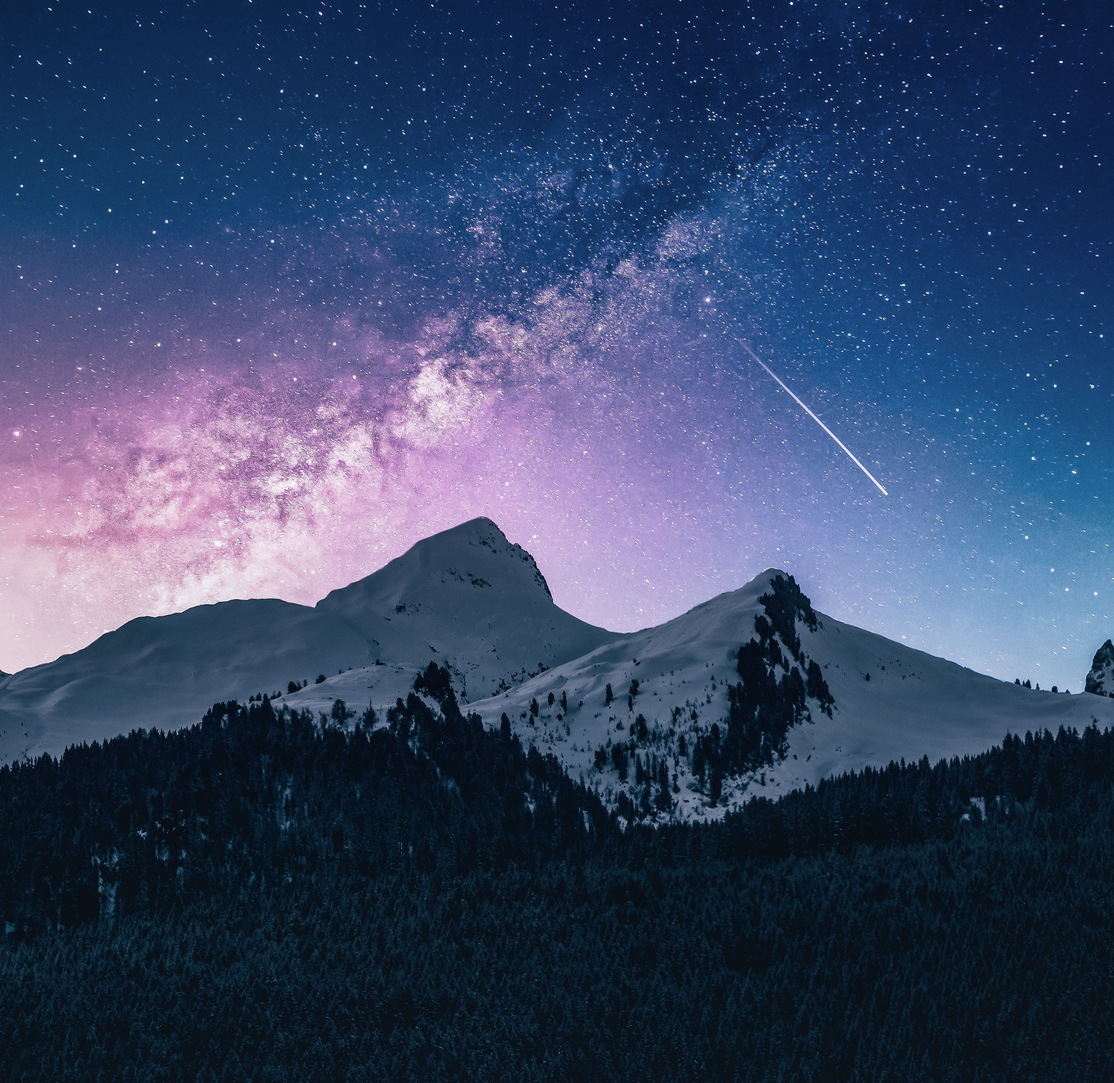
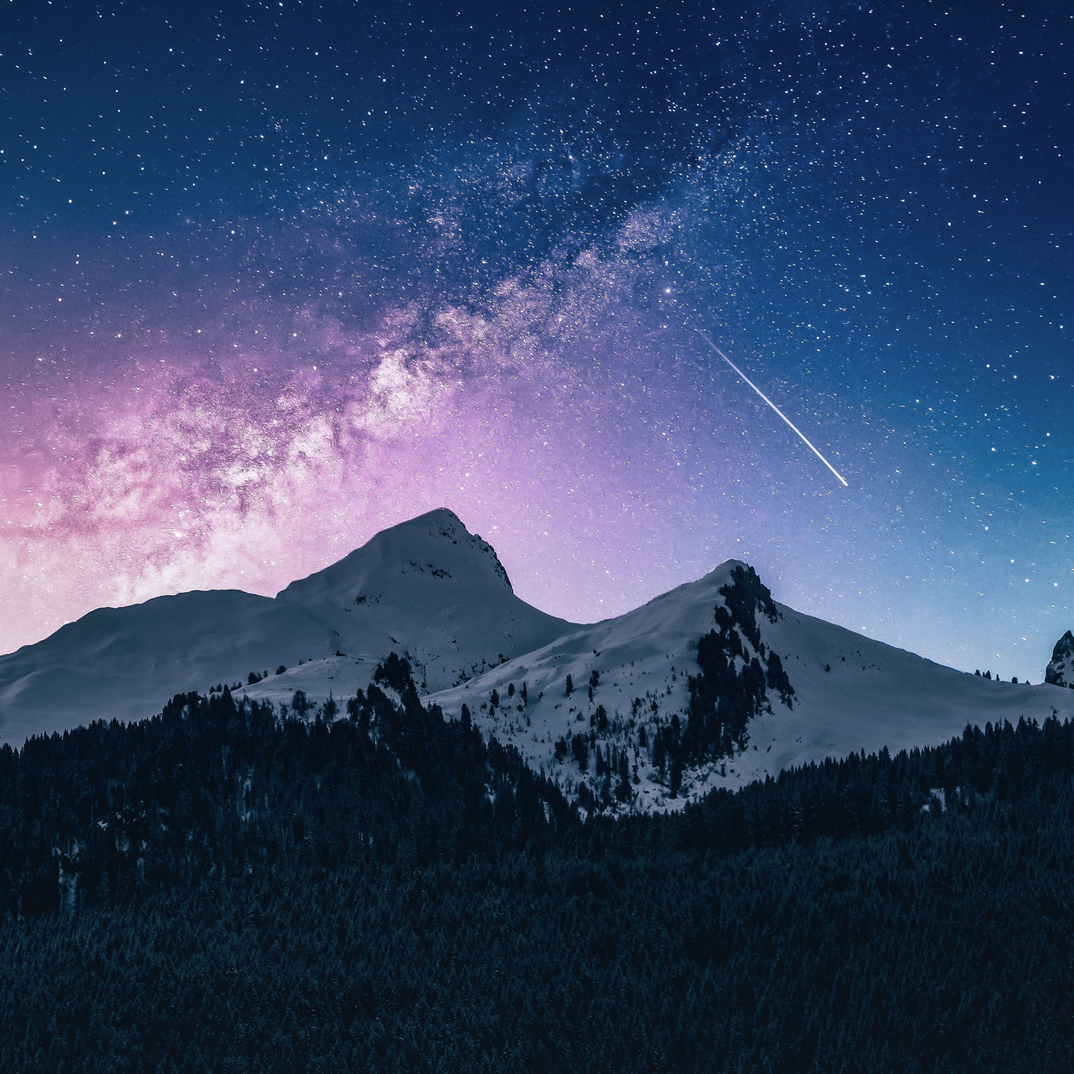
Style "random info" section (second section)
- Also updated an image file that was not properly cropped to square.
 - Minor fixes to hero / header section as well

diff --git a/index.html b/index.html
@@ -29,7 +29,7 @@
                 </div>
                 <button class="sign-up">Sign up</button>
             </div>
-            <img src="images/mountain1.jpg" alt="snowy mountain">
+            <img src="images/mountain1.jpg" alt="snowy mountain" width="50%" height="100%">
         </div>
     </div>
 
@@ -37,19 +37,19 @@
         <div class="info-title-text">Some random information.</div>
         <div class="info-cards-container">
             <div class="info-card">
-                <img src="images/mountain2.jpg" alt="mountain">
+                <img src="images/mountain2.jpg" alt="mountain" width="100px" height="100px">
                 <div>this is some subtext under an illustration or image</div>
             </div>
             <div class="info-card">
-                <img src="images/mountain3.jpg" alt="mountain">
+                <img src="images/mountain3.jpg" alt="mountain" width="100px" height="100px">
                 <div>this is some subtext under an illustration or image</div>
             </div>
             <div class="info-card">
-                <img src="images/mountain4.jpg" alt="mountain">
+                <img src="images/mountain4.jpg" alt="mountain" width="100px" height="100px">
                 <div>this is some subtext under an illustration or image</div>
             </div>
             <div class="info-card">
-                <img src="images/mountain5.jpg" alt="mountain">
+                <img src="images/mountain5.jpg" alt="mountain" width="100px" height="100px">
                 <div>this is some subtext under an illustration or image</div>
             </div>
         </div>

diff --git a/style.css b/style.css
@@ -5,11 +5,6 @@ body {
     margin:0;
 }
 
-img {
-    width:200px;
-    height:auto;
-}
-
 ul {
     list-style: none;
     display:flex;
@@ -21,7 +16,7 @@ ul {
     display:flex;
     justify-content: space-between;
     align-items: center;
-    padding: 10vw;
+    padding:  0 10vw;
 }
 .header-logo{
     color:#F9FAF8;
@@ -37,13 +32,13 @@ ul {
     background-color:#1F2937;
     display:flex;
     justify-content: center;
-    padding: 32px;
+    padding: 10vw;
 }
 
 .hero-media-object{
     display:flex;
     align-self: center;
-    width: 80vw;
+    gap: 12px;
 }
 
 .hero-left {
@@ -71,4 +66,45 @@ button.sign-up {
     border-radius: 5px;
     padding: 5px 20px;
     align-self: flex-start;
+}
+
+.two {
+    display:flex;
+    flex-direction: column;
+    justify-content: center;
+    align-items: center;
+    gap: 20px;
+    padding: 10vw;
+}
+
+.info-title-text {
+    color: #1F2937;
+    font-size: 36px;
+    font-weight:900;
+    text-align: center;
+}
+
+.info-cards-container {
+    display: flex;
+    justify-content: space-between;
+    flex-wrap: wrap;
+    gap: 40px;
+    width: 80%;
+}
+
+.info-card {
+    display: flex;
+    flex-direction: column;
+    max-width:100px;
+    gap: 8px;
+}
+
+.info-card > img {
+    border: solid #3882F6 2px;
+    border-radius: 10px;
+}
+
+.info-card > div {
+    font-weight: 200;
+    text-align: center;
 }
